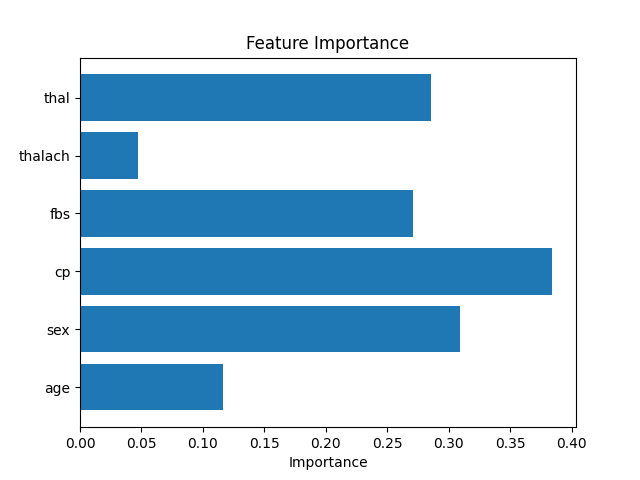
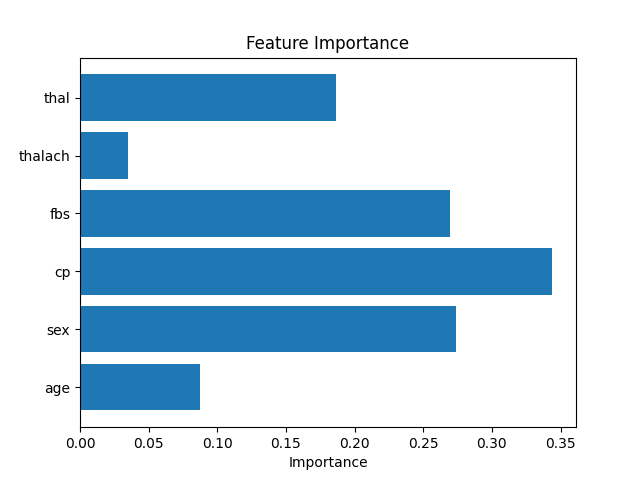
HW3: update AdaBoost

diff --git a/Homework/HW3/code/src/adaboost.py b/Homework/HW3/code/src/adaboost.py
@@ -1,4 +1,3 @@
-import typing as t
 import numpy as np
 import torch
 import torch.nn as nn
@@ -7,94 +6,74 @@ from .utils import WeakClassifier, entropy_loss
 
 
 class AdaBoostClassifier:
-    def __init__(self, input_dim: int, num_learners: int = 10) -> None:
-        # Create 10 weak learners
+    def __init__(self, input_dim: int, num_learners: int = 10):
+        # Initialize AdaBoost with a list of weak learners
         self.learners = [WeakClassifier(input_dim=input_dim) for _ in range(num_learners)]
-        # All samples initially have equal weights
         self.sample_weights = None
-        # Initialize alpha values
         self.alphas = []
 
-
     def fit(self, X_train: torch.Tensor, y_train: torch.Tensor, num_epochs: int = 500, learning_rate: float = 0.001):
-        # Initialize
+        # Determine the number of samples
         n_samples = X_train.shape[0]
         self.sample_weights = np.ones(n_samples) / n_samples
         losses_of_models = []
 
-        # Train for each weak learner
+        # Loop over each weak learner
         for learner in self.learners:
+            # Initialize the optimizer with learning rate for gradient descent
             optimizer = optim.Adam(learner.parameters(), lr=learning_rate)
-            
-            # Train for each epoch
+            # Training loop for the specified number of epochs
             for epoch in range(num_epochs):
-                outputs = learner(X_train).squeeze()
-                loss = entropy_loss(outputs, y_train)
-                weighted_loss = torch.mean(torch.tensor(self.sample_weights) * loss)
-                
-                weighted_loss.backward()
-                optimizer.step()
+                learner.train()
                 optimizer.zero_grad()
 
-            # Calculate errors and update weights
+                outputs = learner(X_train).squeeze()
+                loss = entropy_loss(outputs, y_train)
+                weighted_loss = torch.mean(torch.tensor(self.sample_weights, dtype=torch.float32) * loss)
+
+                weighted_loss.backward()
+                optimizer.step()
+
             with torch.no_grad():
-                # Predict on training set
                 learner.eval()
-                predictions = torch.sign(learner(X_train).squeeze())
+                # Convert predictions to 0 or 1 using threshold
+                predictions = (learner(X_train).squeeze() >= 0.5).float()
                 incorrect = (predictions != y_train).float()
                 weighted_error = np.dot(self.sample_weights, incorrect.numpy())
 
-                # Avoid division by zero
-                # if weighted_error == 0:
-                #     continue
-                
-                # Alpha calculation
-                # alpha = 0.5 * np.log((1 - weighted_error) / (weighted_error + 1e-10))
-                
-                print("weighted_error:", weighted_error)
-
-                if weighted_error <= 0 or weighted_error >= 1:
-                    # Large positive or negative value depending on sign
-                    alpha = np.sign(0.5 - weighted_error)
+                # Handle division by zero in alpha calculation
+                if weighted_error == 0 or weighted_error == 1:
+                    alpha = 1e-10  # Small alpha to avoid infinite weights
                 else:
-                    alpha = 0.5 * np.log((1 - weighted_error) / (weighted_error + 1e-10))
-                
+                    alpha = 0.5 * np.log((1 - weighted_error) / weighted_error)
+
                 self.alphas.append(alpha)
 
-                # Update weights
-                self.sample_weights *= np.exp(-alpha * y_train.numpy() * predictions.numpy())
-                # Normalize weights
+                # Update sample weights exponentially
+                exp_component = np.exp(-alpha * (2 * y_train.numpy() - 1) * (2 * predictions.numpy() - 1))
+                self.sample_weights *= exp_component
                 self.sample_weights /= np.sum(self.sample_weights)
 
-                # Store model's loss
+                # Record the loss of this epoch
                 losses_of_models.append(weighted_loss.item())
 
         return losses_of_models
 
-
-    def predict_learners(self, X) -> t.Union[t.Sequence[int], t.Sequence[float]]:
-        # Aggregate predictions from all learners
-        predictions = []
+    def predict_learners(self, X):
         final_output = np.zeros(X.shape[0])
-        
-        # Test for each weak learner
+        predictions = []
+        # Aggregate predictions from all learners weighted by alpha
         for learner, alpha in zip(self.learners, self.alphas):
             prediction = learner(X).detach().squeeze()
             predictions.append(prediction.numpy())
             final_output += alpha * prediction.numpy()
-            
-        return np.sign(final_output), predictions
 
+        return final_output, predictions
 
-    def compute_feature_importance(self) -> t.Sequence[float]:
-        # This assumes the feature importance is the sum of the absolute weights of the model parameters
+    def compute_feature_importance(self):
         importance = np.zeros(self.learners[0].linear.weight.shape[1])
-        
-        # Calculate feature importance for each learner
+        # Calculate the importance of each feature across all learners
         for learner, alpha in zip(self.learners, self.alphas):
             importance += np.abs(learner.linear.weight.detach().numpy().squeeze() * alpha)
-            
-        print("alpha:", self.alphas)
-            
-        # Average feature importance over all learners
+
         return importance / len(self.learners)

diff --git a/Homework/HW3/code/main.py b/Homework/HW3/code/main.py
@@ -26,14 +26,14 @@ def main():
     X_test = torch.tensor(X_test, dtype=torch.float32)
     y_test = torch.tensor(y_test, dtype=torch.float32)
     
+    # Get feature names
     feature_names = train_df.drop(['target'], axis=1).columns.to_list()
 
     # AdaBoost
     clf_adaboost = AdaBoostClassifier(input_dim=X_train.shape[1])
-    _ = clf_adaboost.fit(X_train, y_train, num_epochs=100, learning_rate=0.001)
+    _ = clf_adaboost.fit(X_train, y_train, num_epochs=1000, learning_rate=0.001)
     y_pred_probs, y_predictions = clf_adaboost.predict_learners(X_test)
-    # Assuming output needs to be binarized
-    y_pred_classes = np.sign(y_pred_probs)
+    y_pred_classes = (y_pred_probs > 0.5).astype(int)
     accuracy_ = accuracy_score(y_test, y_pred_classes)
     logger.info(f'AdaBoost - Accuracy: {accuracy_:.4f}')
     plot_learners_roc(y_preds=y_predictions, y_trues=y_test, fpath='./AUC_curves/AdaBoost.png')
@@ -45,7 +45,7 @@ def main():
     clf_bagging = BaggingClassifier(input_dim=X_train.shape[1])
     _ = clf_bagging.fit(X_train, y_train, num_epochs=500, learning_rate=0.001)
     y_pred_probs, y_predictions = clf_bagging.predict_learners(X_test)
-    y_pred_classes = (y_pred_probs > 0.5).astype(int)  # Assuming output is probability
+    y_pred_classes = (y_pred_probs > 0.5).astype(int)
     accuracy_ = accuracy_score(y_test, y_pred_classes)
     logger.info(f'Bagging - Accuracy: {accuracy_:.4f}')
     plot_learners_roc(y_preds=y_predictions, y_trues=y_test, fpath='./AUC_curves/Bagging.png')
